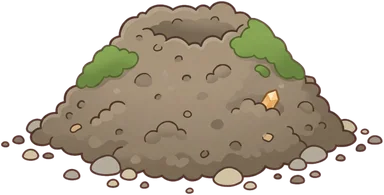
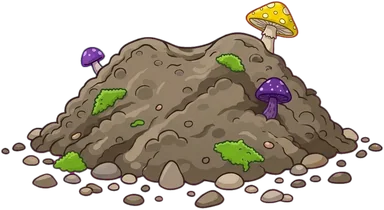
feat(planet): owner's three crystal heaps, smaller crystals growing until two thirds of the word's way
Claude-Session: https://claude.ai/code/session_01MAZwqTN5mZ5mrQogx6Hvzv

diff --git a/src/game/modes/planet-crystals.ts b/src/game/modes/planet-crystals.ts
@@ -10,14 +10,15 @@ import type { Target } from '../typing';
 /** The three kinds of crystal, each with its cracked picture, and their colors while the pictures are missing. */
 export const CRYSTALS = ['obj-crystal-amber', 'obj-crystal-rose', 'obj-crystal-aqua'];
 const CRYSTAL_COLOR: Record<string, string> = { 'obj-crystal-amber': '#f2b65a', 'obj-crystal-rose': '#f3b3be', 'obj-crystal-aqua': '#9ed8e2' };
-const MOUNDS = ['obj-mound-1', 'obj-mound-2'];
-/** A big crystal shows about 30 % of Tapko's height above its mound; a mound's height. */
-const CRYSTAL_H = 114;
+/** The heaps crystals grow out of; each also mirrored at random. */
+const MOUNDS = ['obj-mound-1', 'obj-mound-2', 'obj-mound-3'];
+/** A full-grown crystal is about 30 % of Tapko's height; a heap's height. */
+const CRYSTAL_H = 84;
 const MOUND_H = 72;
 /** The molehills start this far from the stage's left edge, right of Tapko. */
 const MOUND_LEFT = TAPKO_X + 200;
-/** Seconds a crystal grows, flies into the pocket, lies cracked before it is gone, and a mound rests after. */
-const GROW = 2.6;
+/** A crystal grows while its word sinks two thirds of the way down; seconds it flies into the pocket, lies cracked before it is gone, and a heap rests after. */
+const GROW_SHARE = 2 / 3;
 const FLY = 0.7;
 const CRACKED = 2.4;
 const REST = 1;
@@ -136,13 +137,13 @@ export class CrystalsMode extends Mode {
     for (const m of this.mounds) m.x = MOUND_LEFT + (right - MOUND_LEFT) * m.share + m.jitter;
   }
 
-  /** Where the crystal's foot is: in the molehill's hollow near its top, so the heap covers it. */
+  /** Where the crystal's foot is: a quarter of the heap below its crown, so the heap covers it. */
   private foot(m: Mound): number {
-    return m.y - MOUND_H * 0.86;
+    return m.y - MOUND_H * 0.68;
   }
 
   private size(c: Crystal): number {
-    const k = Math.min(1, c.age / GROW);
+    const k = Math.min(1, c.age / (c.travel * GROW_SHARE));
     return CRYSTAL_H * (this.L.reduceMotion ? 1 : 0.25 + 0.75 * ease.outBack(k));
   }
 

diff --git a/assets-src/PROMPTS.md b/assets-src/PROMPTS.md
@@ -508,7 +508,7 @@ BG is `magenta color (#FF00FF)` unless the table says `green`, then use `green c
 | `obj-crystal-rose.jpg` | (2026-10-28, tall portrait) two tall six-sided points of different height from one base, leaning slightly apart, rose quartz (#F3B3BE, facets #FCD9DE, edges #D07A8C); as amber otherwise | green |
 | `obj-crystal-aqua.jpg` | (2026-10-28) three short thick points fanning out from one base, the middle one tallest, light aquamarine (#9ED8E2, facets #D2F1F5, edges #5FA9B8); as amber otherwise | magenta |
 | `obj-crystal-*-cracked.jpg` | **attach the crystal**: "redraw the attached ... crystal in exactly the same style, size, position and shape ... Only change: several clear dark-brown zigzag crack lines across its points, one small chip broken off a tip, the color a bit duller (amber #D9A85E, rose #DDA9B2, aqua #A9C9CE), no white highlight, no pieces lying around" | as the crystal |
-| `obj-mound-1.jpg`, `obj-mound-2.jpg` | (2026-10-28) a natural molehill, a loose lumpy heap of crumbly earth about two and a half times wider than tall, slightly lopsided, NOT a smooth dome or helmet; a small hollow in its top inside the outline, a ring of small pebbles and crumbs at its foot (its bottom edge, not cut straight), no ground under it: 1 brown earth with grass blades and a clover leaf; 2 grey-brown pebbly earth with moss and a tiny amber crystal chip | magenta |
+| `obj-mound-1.png` to `obj-mound-3.png` | (the owner's pictures, 2026-10-28) three grey-brown heaps of crumbly earth with pebbles at their foot, moss and a few small crystals and mushrooms; no hollow, the crystal grows from behind the crown. Defringed (`scripts/defringe.mjs`); the game also mirrors them | magenta |
 | `obj-signpost-1.jpg` | (2026-10-28, the crossroads' posts, no board: the game draws the word bubble on top) a short sturdy round wooden post (#A8774A) with grain and knots, a small red-brown mushroom-cap top with cream spots, a tuft of grass and a tiny crystal at its foot; about three times taller than wide | magenta |
 | `obj-signpost-2.jpg` | a tall slim pole of light honey wood (#C99A62) with three carved rings, a green vine with small leaves on its lower half, a small amber crystal in a wooden cup on top; about seven times taller than wide | magenta |
 | `obj-signpost-3.jpg` | a very tall thin straight pole of dark brown wood (#7A5434), a moss patch at its foot, two leafy twigs halfway up, a round bulb plant with a softly glowing yellow bud on top; about twelve times taller than wide | magenta |

diff --git a/.specify/game/story.md b/.specify/game/story.md
@@ -117,7 +117,8 @@ gives you a wreath"), never about the character as someone else.
    2 the meadow's crystals (a stream): five molehills (fewer on a narrow screen), lumpy heaps
    with pebbles at their foot that sit anywhere low on the ground; a crystal of one of three kinds,
    turned a little its own way and glowing softly in its own color, grows slowly out from
-   behind a molehill, stays big (about 40 % of Tapko's height) and cracks; a cracked one stays
+   behind a heap (three kinds, each also mirrored) while its word sinks two thirds of the way
+   down, stays big (about 30 % of Tapko's height) and cracks; a cracked one stays
    a moment longer before it fades. Its word shows high above it as it starts and sinks to
    its tip; typed in time, the crystal flies into Tapko's pocket (the rocket needs this energy
    for the way home); not typed, it cracks, its word goes, it fades and later a new one grows
